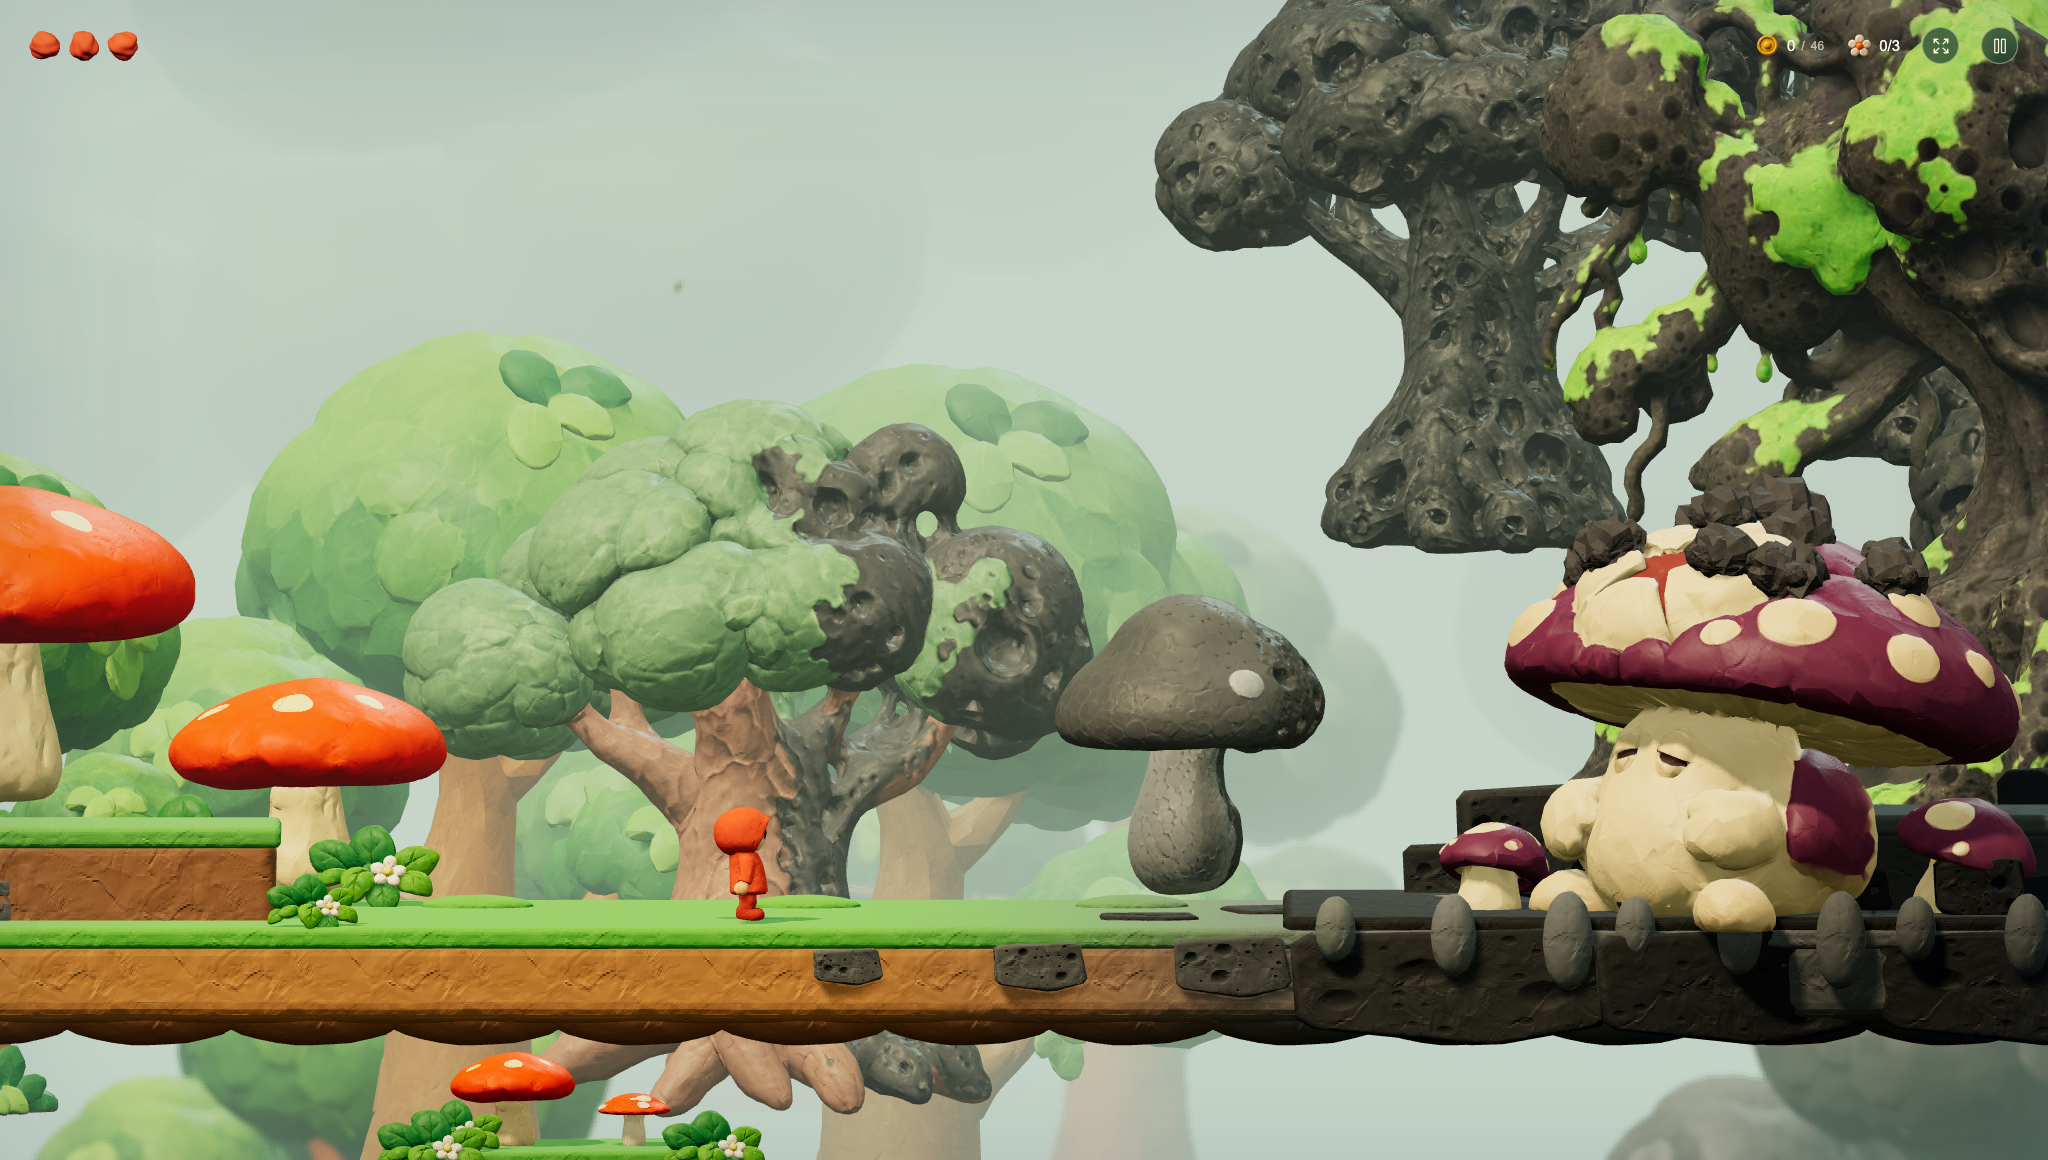
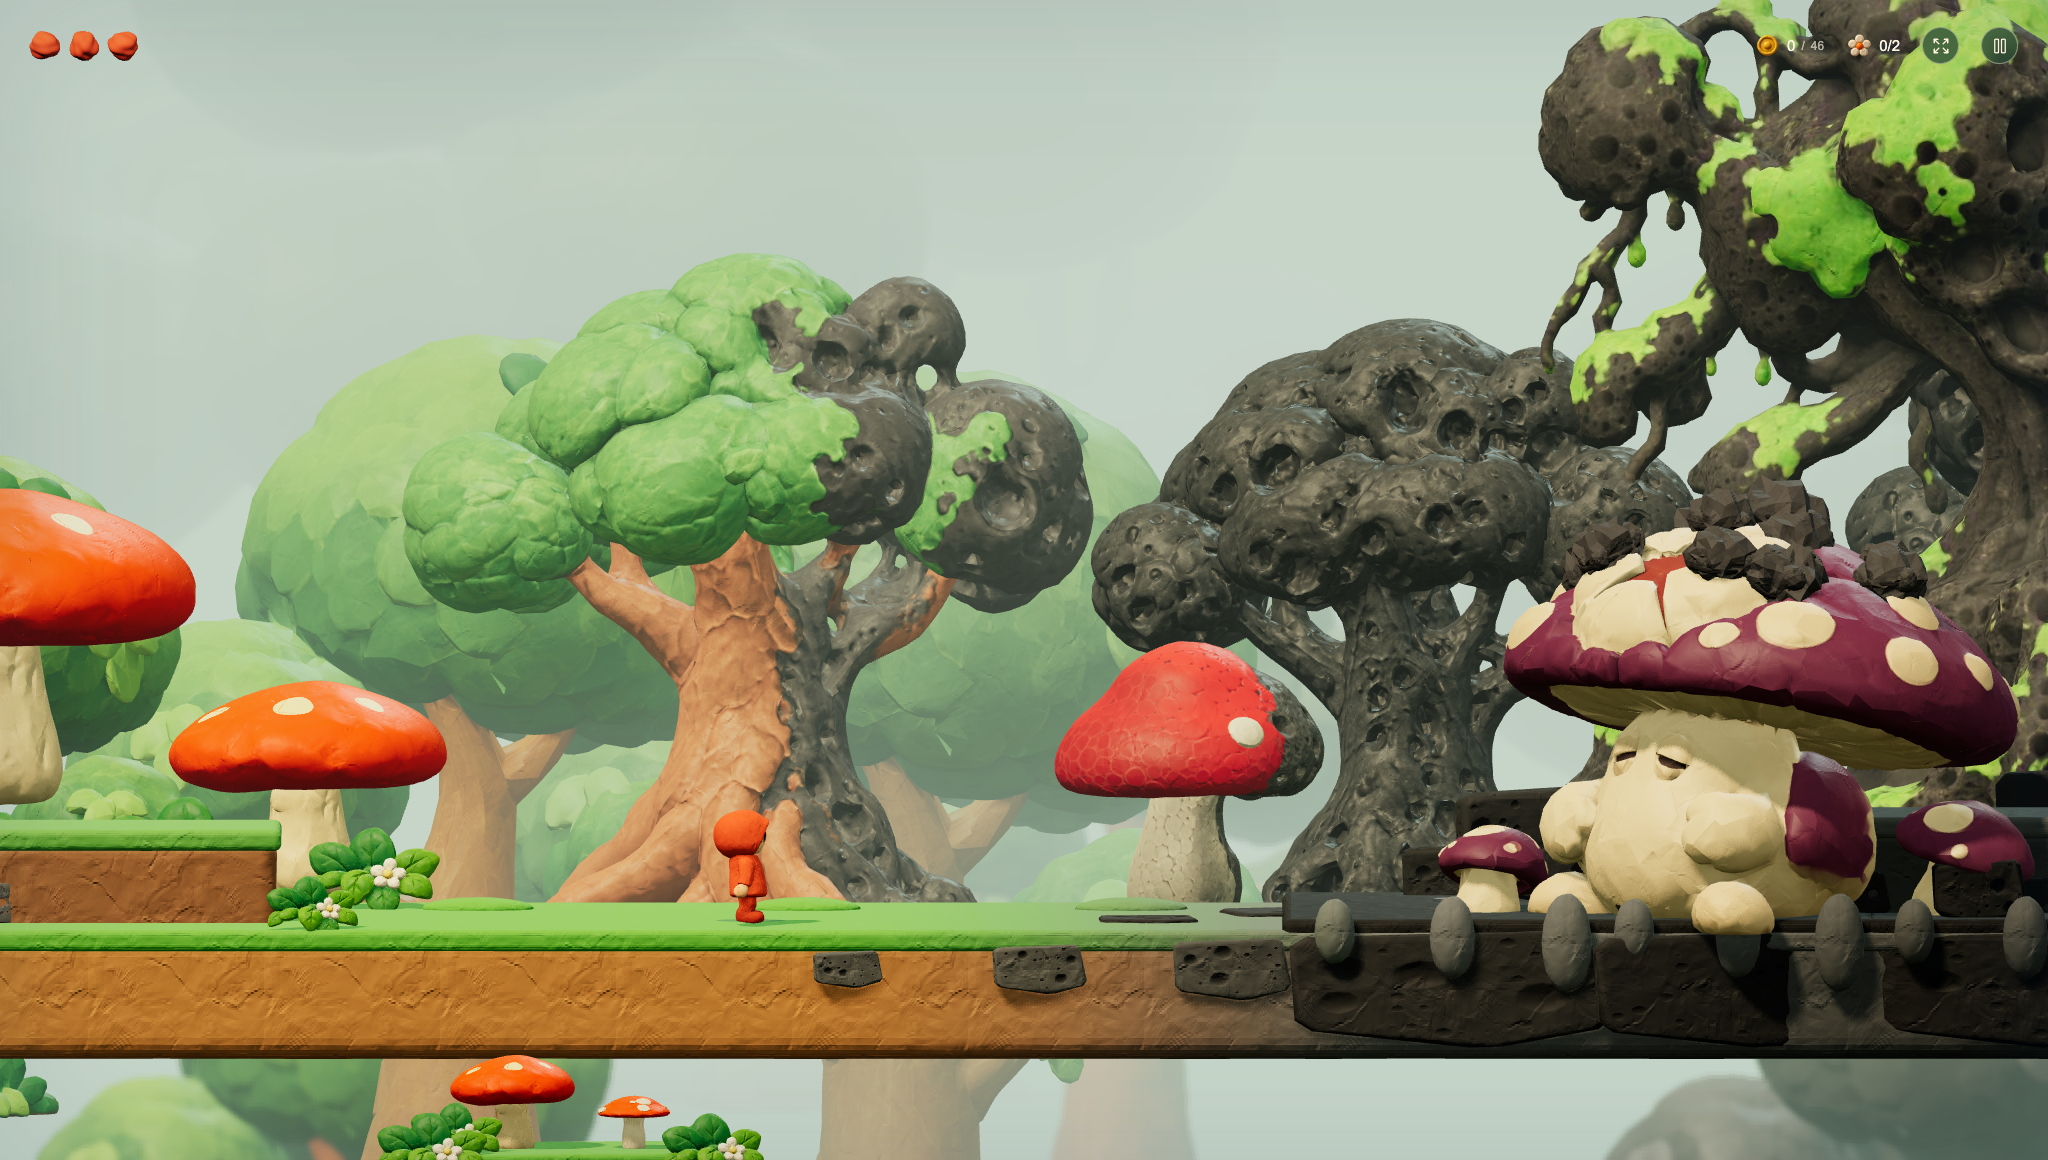
Stand every sculpture in the clearing on the ground, and let the half-turned pair keep its healthy side
Three placement notes from playing it. The half-turned tree stood four units
below the deck, so its roots hung out beneath the platform; it stands on the
deck now, and the deck body is thicker. The camera looks down a little, so a
thing further back sits higher on screen by about an eighth of its depth: the
half-turned cap read as hovering, and two pored canopies were placed with
their bases in the air. Every sculpture's base is now set that much below the
deck's top, so all of them stand on it. And the half-turned pair, which
already carries its stone on one flank, was being greyed to the whole; it is
only lightly afflicted now, so its healthy side stays visible — clay caught
mid-hardening, which is what those two are for.

diff --git a/dist/mother-puff-environment.js b/dist/mother-puff-environment.js
@@ -160,7 +160,7 @@ export function createMotherArenaFloor(w,s,g){
   // there. The collider under all of it stays the flat deck the encounter is
   // tuned against.
   const deck=new THREE.Group();deck.name='Clearing ground';g.add(deck);
-  w.box(s.w,1.45,7,'terrain',deck,s.w/2,-.8,-1.8,.36);
+  w.box(s.w,2,7,'terrain',deck,s.w/2,-1.05,-1.8,.36);
   w.box(s.w,.35,7.1,'top',deck,s.w/2,-.15,-1.8,.15);
   for(let i=0;i<15;i++){
     const x=.8+i*(s.w-1.6)/14;
@@ -270,10 +270,14 @@ export function createMotherEnvironment(w,root,b){
       blighted.push({stone:arch,green,stoneScale:arch.scale.x,greenScale:green.scale.x});
     }
     // Near enough that the fog does not pale them: the blight has to stay charcoal.
-    for(const [dx,z,width,dy]of [[22,-12,15,-3],[15,-14,11,6.5],[7.5,-15.5,10,5]]){
+    // Nothing floats: the camera looks down a little, so a thing further back
+    // sits higher on screen by about an eighth of its depth, and each base is
+    // set that much below the deck's top to read as standing on it.
+    const footing=z=>b.y-.12*-z+.3;
+    for(const [dx,z,width]of [[22,-12,15],[19,-14,11],[6.5,-12,10]]){
       const x=center+dx;
-      pair(x,1,'tree',blightedModel(w,'corrupt-tree',scenery,x,b.y+dy,z,width),
-        forestModel(w,'canopy',scenery,x,b.y+dy,z,width,-.15,true));
+      pair(x,1,'tree',blightedModel(w,'corrupt-tree',scenery,x,footing(z),z,width),
+        forestModel(w,'canopy',scenery,x,footing(z),z,width,-.15,true));
     }
     for(const [dx,width]of [[24.5,3.8]]){
       const x=center+dx;
@@ -282,12 +286,13 @@ export function createMotherEnvironment(w,root,b){
     }
     // Half-turned pairs mark the ground the blight is still crossing, in the
     // middle of the clearing, each with its stone flank turned toward the boss.
-    for(const [key,dx,z,width,healthy,healthyWidth]of [['semi-tree',-4,-16,11,'canopy',11],['semi-mushroom',3,-7,4.2,'heroMushroom',4.2]]){
-      const x=center+dx,dy=key==='semi-tree'?-4:0;
-      // Everything on the boss's side of centre is wholly hers, half-turned or not.
-      pair(x,x>=center?1:key==='semi-tree'?.7:.6,key==='semi-tree'?'tree':'mushroom',
-        blightedModel(w,key,scenery,x,b.y+dy,z,width),
-        forestModel(w,healthy,scenery,x,b.y+dy,z,healthyWidth,.18,true));
+    // The half-turned sculptures already carry their stone on one flank, so
+    // they are only lightly afflicted: their healthy side stays visible, which
+    // is what makes them read as clay caught mid-hardening.
+    for(const [key,dx,z,width,healthy,healthyWidth,amount]of [['semi-tree',-4,-16,11,'canopy',11,.45],['semi-mushroom',3,-10,4.2,'heroMushroom',4.2,.4]]){
+      const x=center+dx,y=footing(z);
+      pair(x,amount,key,blightedModel(w,key,scenery,x,y,z,width),
+        forestModel(w,healthy,scenery,x,y,z,healthyWidth,.18,true));
     }
   }
   const stone=new THREE.Group();stone.name='Pored erosion in the clearing';scenery.add(stone);
